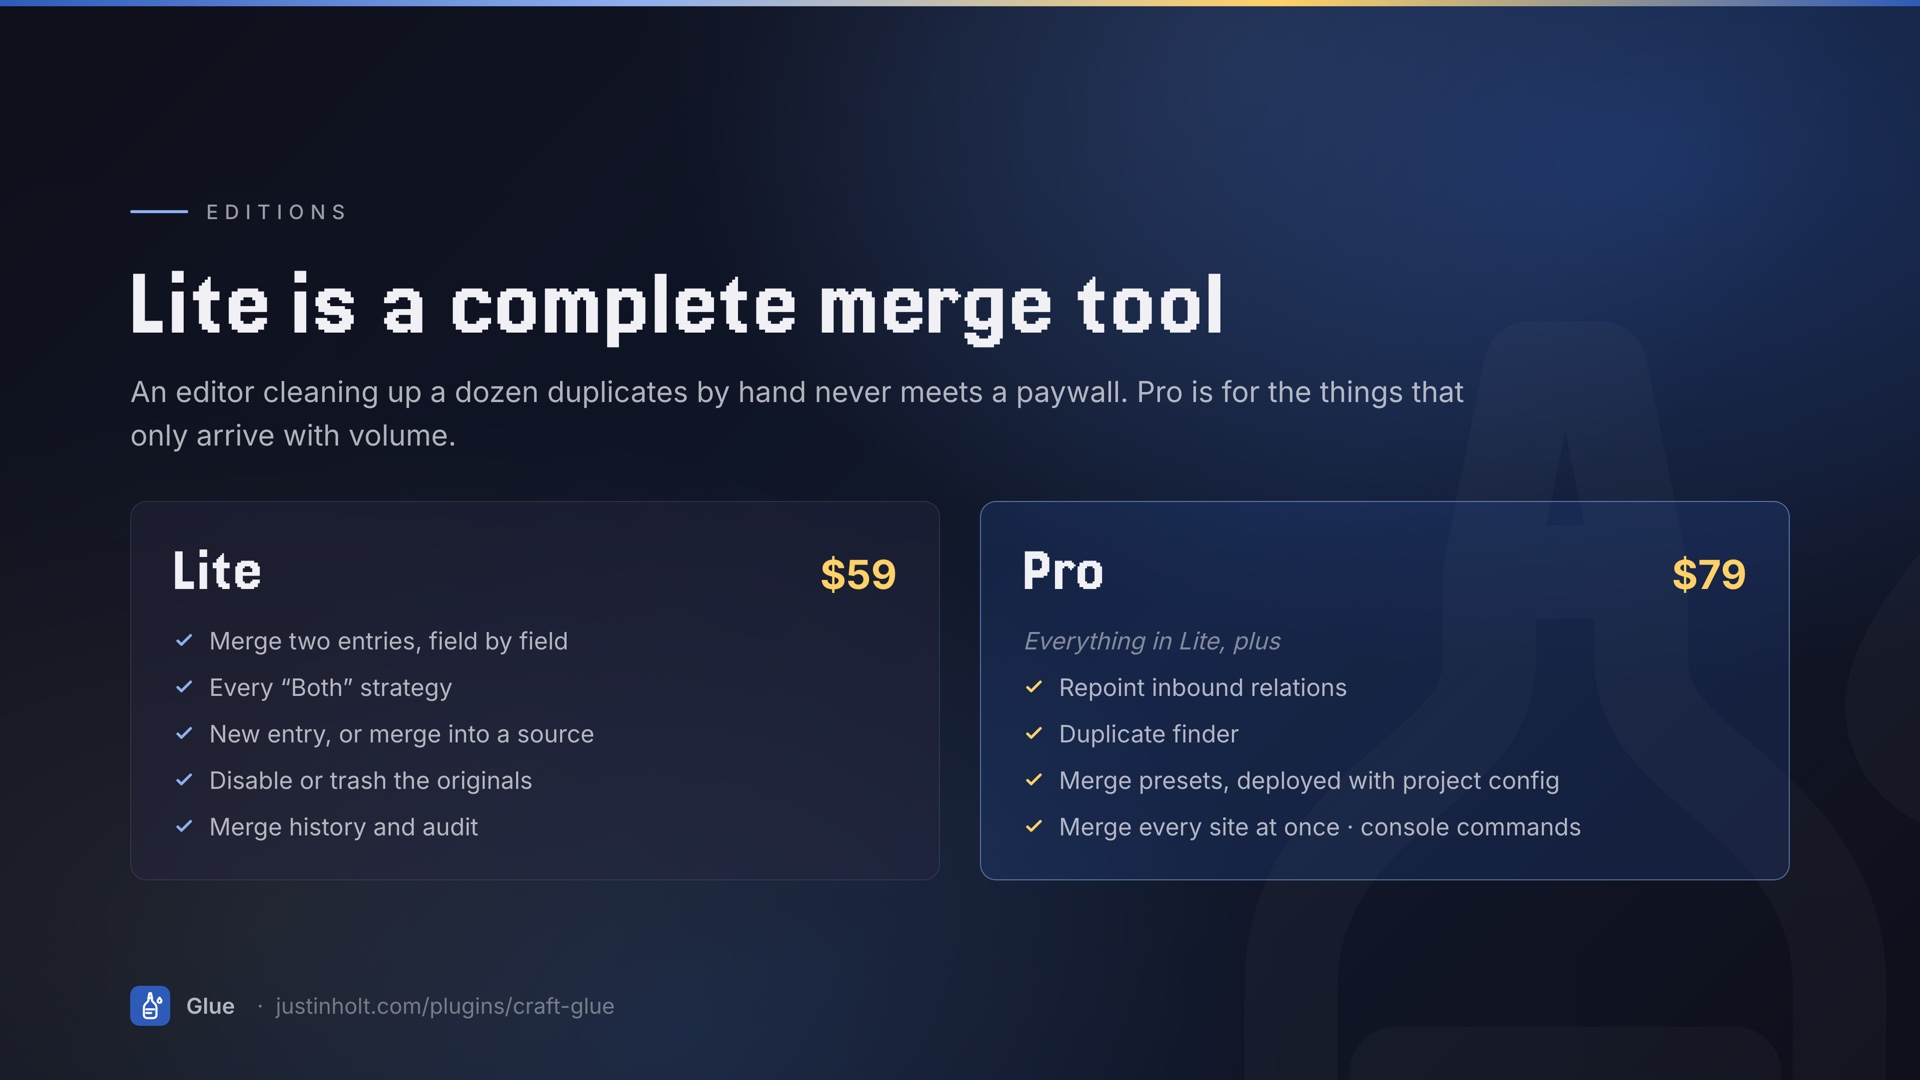
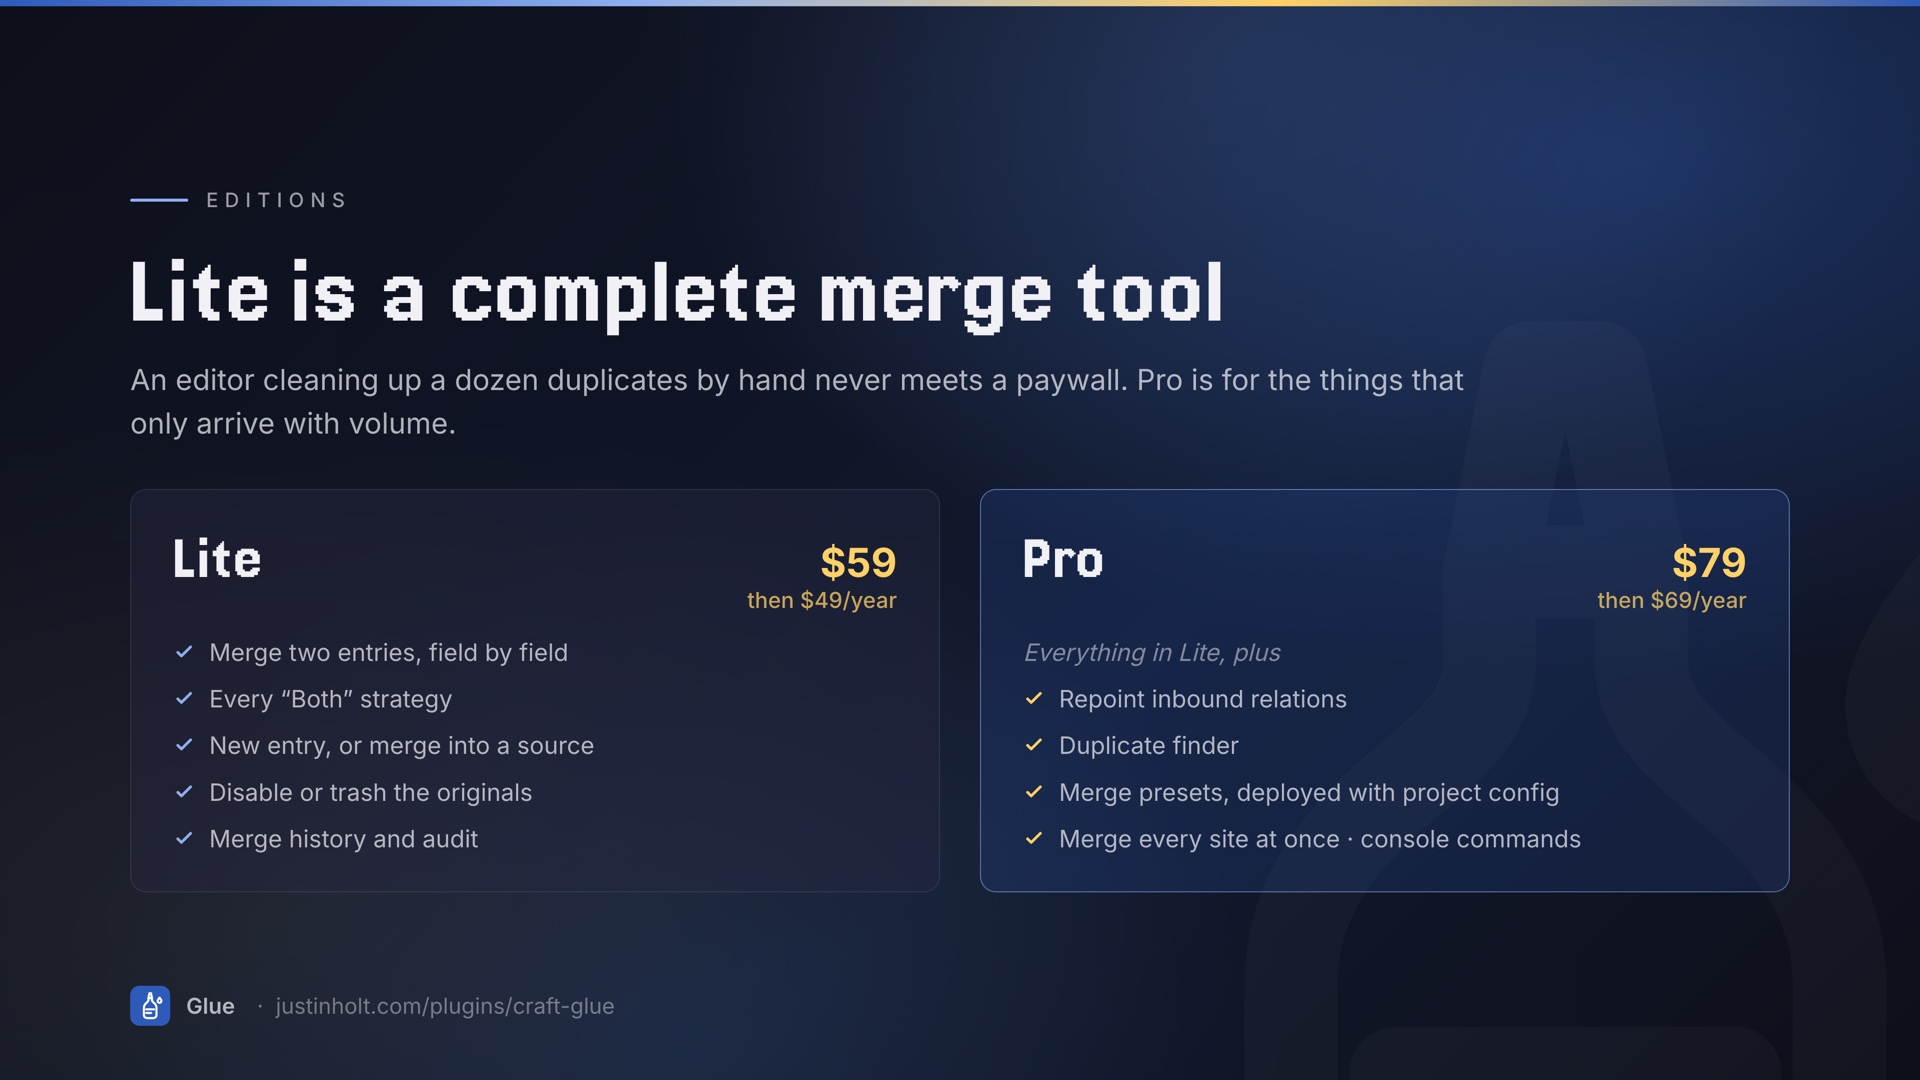
Renewals: Lite $49/year, Pro $69/year

diff --git a/promos/slides.html b/promos/slides.html
@@ -212,7 +212,8 @@
   .ed.pro { border-color: rgba(143,176,240,0.55); background: rgba(46, 91, 186, 0.18); }
   .ed header { display: flex; align-items: baseline; justify-content: space-between; margin-bottom: 22px; }
   .ed header b { font-family: 'Jersey 20', sans-serif; font-weight: 400; font-size: 64px; }
-  .ed header span { font-size: 40px; font-weight: 700; color: var(--gold); }
+  .ed header span { font-size: 40px; font-weight: 700; color: var(--gold); text-align: right; }
+  .ed header small { display: block; font-size: 22px; font-weight: 500; opacity: .75; }
   .ed ul { list-style: none; display: flex; flex-direction: column; gap: 13px; }
   .ed li { display: flex; gap: 14px; font-size: 24px; line-height: 1.4; color: rgba(240,240,245,0.72); }
   .ed li svg { flex: 0 0 auto; margin-top: 5px; }
@@ -381,7 +382,7 @@
     <p class="lede">An editor cleaning up a dozen duplicates by hand never meets a paywall. Pro is for the things that only arrive with volume.</p>
     <div class="eds">
       <div class="ed">
-        <header><b>Lite</b><span>$59</span></header>
+        <header><b>Lite</b><span>$59<small>then $49/year</small></span></header>
         <ul>
           <li><svg width="22" height="22" viewBox="0 0 24 24" fill="none" stroke="#8FB0F0" stroke-width="3"><path d="M5 13l4 4L19 7" stroke-linecap="round" stroke-linejoin="round"/></svg> Merge two entries, field by field</li>
           <li><svg width="22" height="22" viewBox="0 0 24 24" fill="none" stroke="#8FB0F0" stroke-width="3"><path d="M5 13l4 4L19 7" stroke-linecap="round" stroke-linejoin="round"/></svg> Every “Both” strategy</li>
@@ -391,7 +392,7 @@
         </ul>
       </div>
       <div class="ed pro">
-        <header><b>Pro</b><span>$79</span></header>
+        <header><b>Pro</b><span>$79<small>then $69/year</small></span></header>
         <ul>
           <li class="all">Everything in Lite, plus</li>
           <li><svg width="22" height="22" viewBox="0 0 24 24" fill="none" stroke="#ffd166" stroke-width="3"><path d="M5 13l4 4L19 7" stroke-linecap="round" stroke-linejoin="round"/></svg> Repoint inbound relations</li>

diff --git a/CLAUDE.md b/CLAUDE.md
@@ -5,8 +5,9 @@
 Glue merges two Craft entries into one. An editor selects exactly two entries in an entry index,
 picks a winner field by field (or "both", where both means something), and Glue writes the result
 to a new entry or into one of the two sources. Pro then repoints everything that pointed at the
-entry that was retired. Distributed as `justinholtweb/craft-glue`. **Paid, Lite/Pro** — Lite $59,
-Pro $79.
+entry that was retired. Distributed as `justinholtweb/craft-glue`. **Paid, Lite/Pro** — Lite $59
+($49/year renewal), Pro $79 ($69/year renewal). Prices are charged from id.craftcms.com; the
+plugin-marketing-site skill in `~/Sites/justinholt` lists every other place they appear.
 
 ## Tech Stack
 

diff --git a/README.md b/README.md
@@ -117,9 +117,9 @@ dozen duplicates by hand never meets a paywall.
 | Console commands | | ✅ |
 | Duplicate finder | | ✅ |
 
-Lite $59 · Pro $79. Nothing downgrades silently: a lapsed Pro licence keeps every merge it has
-already made — merged entries are ordinary entries — and the Pro controls refuse with a reason
-rather than quietly doing something else.
+Lite $59, then $49/year · Pro $79, then $69/year. Nothing downgrades silently: a lapsed Pro
+licence keeps every merge it has already made — merged entries are ordinary entries — and the Pro
+controls refuse with a reason rather than quietly doing something else.
 
 ## From the command line — Pro
 
